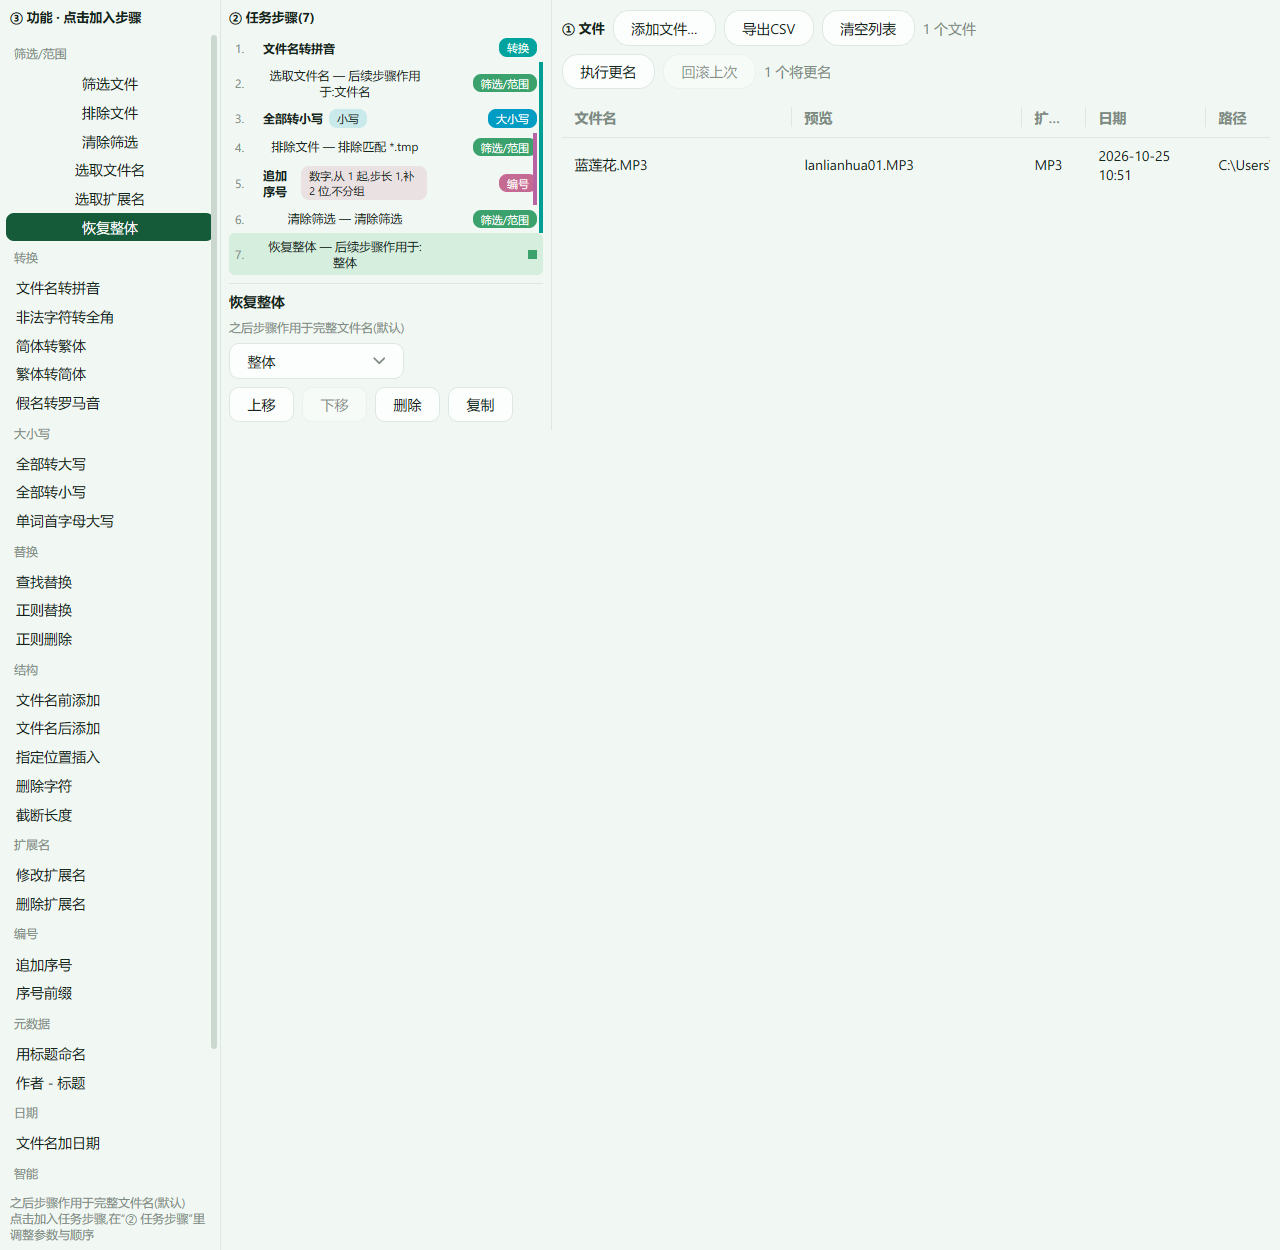
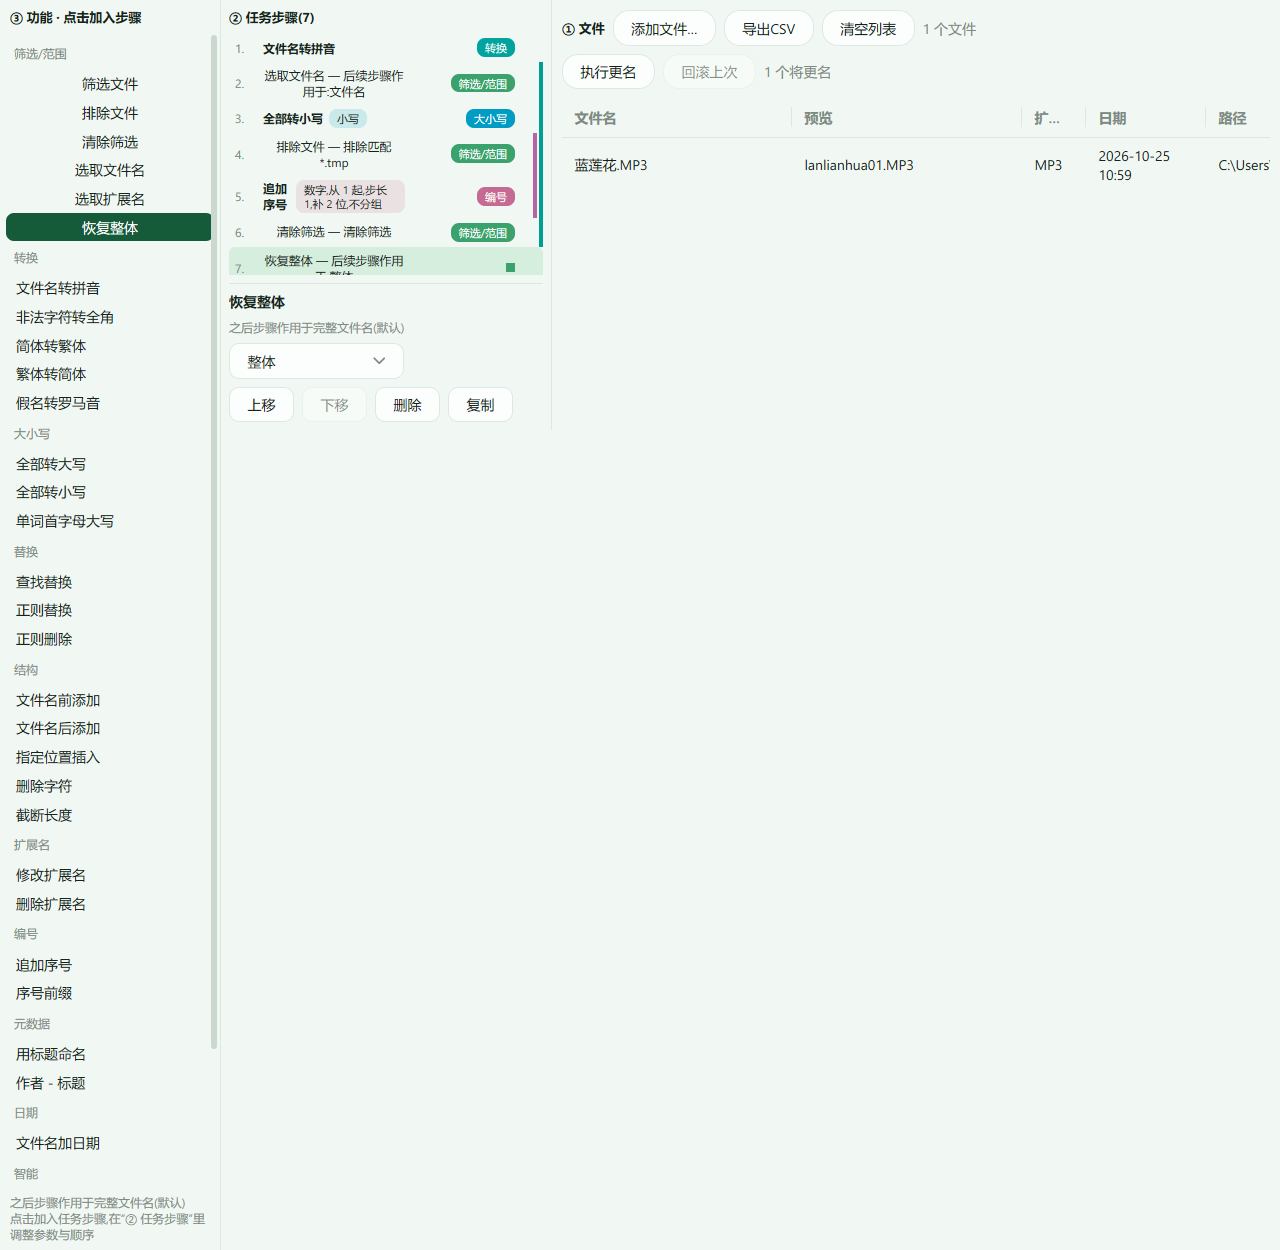
fix: 规则参数转义逗号/反斜杠(正则 {1,3} 等经 GUI spec 不再碎裂); 行末 16px 色条保留区,双线不压胶囊

Changed region(s): [[0.1562, 0.0312, 0.4375, 0.2184]]

diff --git a/gui/rules_editor.go b/gui/rules_editor.go
@@ -2,6 +2,7 @@ package main
 
 import (
 	"fmt"
+	"strings"
 
 	"github.com/egoist/mygo/ui"
 )
@@ -238,6 +239,14 @@ func opByID(id string) (opDef, bool) {
 	return opDef{}, false
 }
 
+// escArg escapes commas and backslashes in free-text rule arguments, so
+// regex like \d{1,3} survives the spec string's comma-separated form
+// (core's splitArgs un-escapes).
+func escArg(s string) string {
+	s = strings.ReplaceAll(s, "\\", "\\\\")
+	return strings.ReplaceAll(s, ",", "\\,")
+}
+
 // spec renders the rule as a CLI spec string. Positions in the UI are
 // 1-based ("从第 2 个字符"), the CLI takes 0-based.
 func (r *guiRule) spec() string {
@@ -252,7 +261,7 @@ func (r *guiRule) spec() string {
 	case "sanitize":
 		return "sanitize"
 	case "replace":
-		s := "replace=" + r.oldStr + "," + r.newStr
+		s := "replace=" + escArg(r.oldStr) + "," + escArg(r.newStr)
 		if r.regex {
 			s += ",regex"
 		}
@@ -264,18 +273,18 @@ func (r *guiRule) spec() string {
 	case "insert":
 		switch r.insMode {
 		case "front":
-			return "insert=0," + r.text
+			return "insert=0," + escArg(r.text)
 		case "end":
-			return "insert=end," + r.text
+			return "insert=end," + escArg(r.text)
 		default:
-			return fmt.Sprintf("insert=%d,%s", n(r.pos)-1, r.text)
+			return fmt.Sprintf("insert=%d,%s", n(r.pos)-1, escArg(r.text))
 		}
 	case "delete":
 		return fmt.Sprintf("delete=%d,%d", n(r.pos)-1, n(r.count))
 	case "truncate":
 		return fmt.Sprintf("truncate=%d", n(r.maxLen))
 	case "ext":
-		return "ext=" + r.newExt
+		return "ext=" + escArg(r.newExt)
 	case "cc":
 		if r.ccSel == "繁体→简体" {
 			return "cc=t2s"

diff --git a/core/rules.go b/core/rules.go
@@ -156,11 +156,29 @@ func (s scopeStep) Apply(ctx *Ctx, dir, name string) (string, error) {
 	return name, nil
 }
 
+// splitArgs splits a rule's argument string on commas, honoring \, and
+// \ escapes so regex arguments (like {1,3} or [a-z,]) survive the trip
+// from the GUI's spec strings.
 func splitArgs(s string) []string {
 	if s == "" {
 		return nil
 	}
-	return strings.Split(s, ",")
+	var out []string
+	var cur strings.Builder
+	for i := 0; i < len(s); i++ {
+		switch {
+		case s[i] == '\\' && i+1 < len(s) && (s[i+1] == ',' || s[i+1] == '\\'):
+			cur.WriteByte(s[i+1])
+			i++
+		case s[i] == ',':
+			out = append(out, cur.String())
+			cur.Reset()
+		default:
+			cur.WriteByte(s[i])
+		}
+	}
+	out = append(out, cur.String())
+	return out
 }
 
 func val(args []string, i int) string {

diff --git a/gui/main_test.go b/gui/main_test.go
@@ -384,3 +384,25 @@ func TestStepRangeBars(t *testing.T) {
 		t.Fatalf("step 14: %v", bars[13])
 	}
 }
+
+// GUI-generated specs must survive commas inside regex arguments:
+// escArg on the GUI side, splitArgs un-escaping in core.
+func TestRegexCommaEndToEnd(t *testing.T) {
+	r := step("replace.re")
+	r.oldStr, r.newStr, r.regex = `\d{1,3}`, `N`, true
+	spec := r.fullSpec()
+	rules, err := core.ParseRules([]string{spec})
+	if err != nil {
+		t.Fatalf("spec %q: %v", spec, err)
+	}
+	dir := t.TempDir()
+	p := filepath.Join(dir, "ab12cd.txt")
+	os.WriteFile(p, []byte("x"), 0o644)
+	plan, errs := core.RunPipeline(rules, []string{p})
+	for _, e := range errs {
+		t.Errorf("pipeline: %v", e)
+	}
+	if plan[0].NewName != "abNcd.txt" {
+		t.Fatalf("got %q want abNcd.txt", plan[0].NewName)
+	}
+}

diff --git a/gui/main.go b/gui/main.go
@@ -257,6 +257,8 @@ func (a *app) stepsView(c *ui.Context) {
 									Background(cat).TextColor(ui.RGB(255, 255, 255))
 							}
 						})
+						// 色条保留区:两条竖线永远画在这里,不压胶囊
+						ui.Box(c).Width(16)
 					})
 				})
 			}).Gap(0).Grow(1) // 行相接,范围竖线连续;行距由行内 Padding 提供
